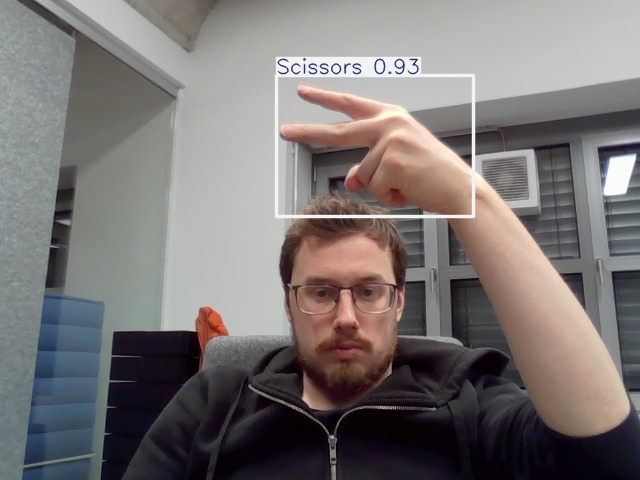
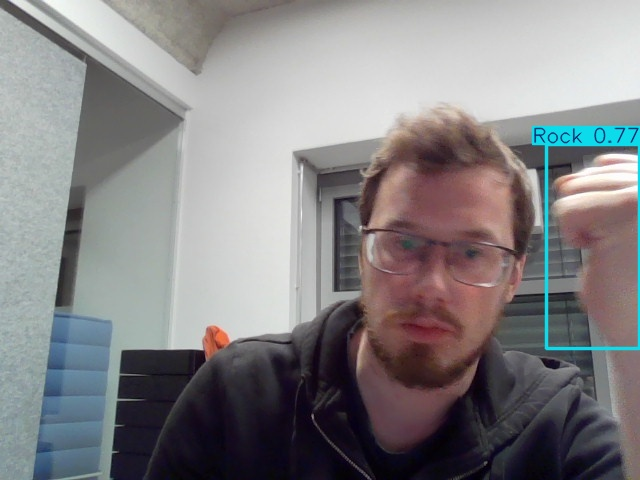
display results in ui

diff --git a/game_ui.py b/game_ui.py
@@ -12,6 +12,7 @@ from game_service import game
[1 lines of base64/hex data omitted]
 placeholder = Response(content=base64.b64decode(black_1px.encode('ascii')), media_type='image/png')
 video_capture = cv2.VideoCapture(0)
+string_display = ui.column()
 
 
 def setup() -> None:
@@ -49,7 +50,10 @@ async def capture_snapshot() -> None:
                 print("Failed to capture snapshot:", response.status_code)
         except Exception as e:
             print("Error capturing snapshot:", e)
-        print(game())
+
+        results = game()
+        for string in results:
+            ui.label(string).classes('ml-4')
 
 
 def convert(frame: np.ndarray) -> bytes:
